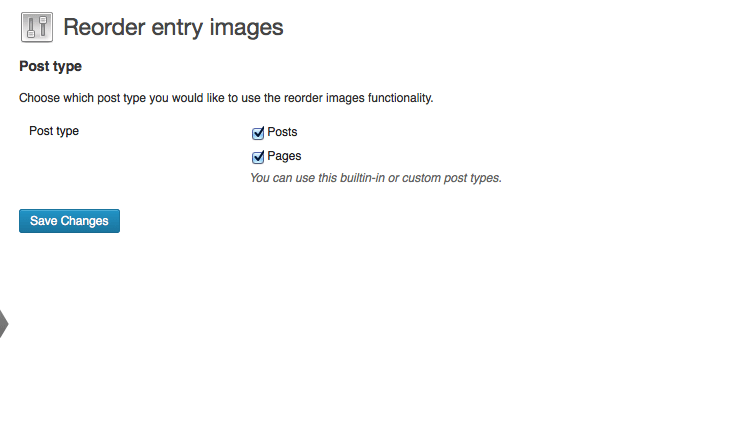
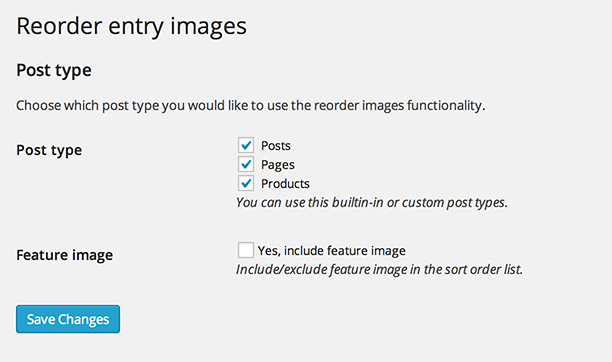
Updated screenshot-2

diff --git a/class-reorder-entry-images.php b/class-reorder-entry-images.php
@@ -24,7 +24,7 @@ class ReorderEntryImages {
 	 *
 	 * @var     string
 	 */
-	protected $version = '1.0.3';
+	protected $version = '1.0.4';
 
 	/**
 	* Unique identifier for your plugin.
@@ -231,9 +231,28 @@ class ReorderEntryImages {
 
 		register_setting( 'rei_the_settings_group', 'rei-options' );
 
-		add_settings_section( 'rei-section-posttype', __( 'Post type', 'reorder-entry-images' ), array( $this, 'rei_general_settings_callback'), $this->plugin_slug );
+		add_settings_section(
+			'rei-section-general-options',
+			__( 'Post type', 'reorder-entry-images' ),
+			array( $this, 'rei_general_settings_callback'),
+			$this->plugin_slug
+		);
 
-		add_settings_field( 'rei-field-posttype', __( 'Post type', 'reorder-entry-images' ), array( $this, 'rei_general_settings_field_callback'), $this->plugin_slug, 'rei-section-posttype' );
+		add_settings_field(
+			'rei-posttype',
+			__( 'Post type', 'reorder-entry-images' ),
+			array( $this, 'rei_option_posttype'),
+			$this->plugin_slug,
+			'rei-section-general-options'
+		);
+
+		add_settings_field( 
+			'rei-feature-image',
+			__( 'Feature image', 'reorder-entry-images' ),
+			array( $this, 'rei_option_feature_image'),
+			$this->plugin_slug,
+			'rei-section-general-options'
+		);
 	}
 
 	/**
@@ -242,15 +261,15 @@ class ReorderEntryImages {
 	* @since 1.0.0
 	*/
 	public function rei_general_settings_callback() {
-		echo 'Choose which post type you would like to use the reorder images functionality.';
+		_e( 'Choose which post type you would like to use the reorder images functionality.', 'reorder-entry-images' );
 	}
 
 	/**
-	* Render the settings field for this plugin.
+	* Render the settings posttype field for this plugin.
 	*
 	* @since 1.0.0
 	*/
-	public function rei_general_settings_field_callback() {
+	public function rei_option_posttype() {
 
 		$settings = (array) get_option( 'rei-options' );
 		foreach( self::getObjectTypes() as $type ) {
@@ -259,7 +278,22 @@ class ReorderEntryImages {
 			}
 		}
 		?>
-		<span class="description"><?php _e("You can use this builtin-in or custom post types.", 'sort-entry-images'); ?></span>
+		<span class="description"><?php _e( 'You can use this builtin-in or custom post types.', 'reorder-entry-images' ); ?></span>
+		<?php
+	}
+
+	/**
+	* Render the settings feature image field for this plugin.
+	*
+	* @since 1.0.4
+	*/
+	public function rei_option_feature_image() {
+
+		$settings = (array) get_option( 'rei-options' );
+		echo '<label class="inline"><input type="checkbox" name="rei-options[feature-image]" value="true" '.checked( 'true', $settings['feature-image'], false ).' />'.__( 'Yes, include feature image', 'reorder-entry-images' ).'</label>';
+		
+		?>
+		<span class="description"><?php _e( 'Include/exclude feature image in the sort order list.', 'reorder-entry-images' ); ?></span>
 		<?php
 	}
 
@@ -283,7 +317,7 @@ class ReorderEntryImages {
 				foreach( $this->the_post_type as $type ) {
 					add_meta_box(
 						'sort-entry-images',
-						__( 'Reorder images with drag & drop', 'sort-entry-images' ),
+						__( 'Reorder images with drag & drop', 'reorder-entry-images' ),
 						array( $this, 'add_image_metabox_sorter' ),
 						$type,
 						'normal',
@@ -302,7 +336,8 @@ class ReorderEntryImages {
 	 */
 	public function add_image_metabox_sorter( $p ) {
 
-		$thumb_id = get_post_thumbnail_id( get_the_ID() );
+		$settings = (array) get_option( 'rei-options' );
+		$thumb_id = $settings['feature-image'] ? 0 : get_post_thumbnail_id( get_the_ID() );
 
 		$args = array(
 			'order'          => 'ASC',
@@ -429,7 +464,8 @@ class ReorderEntryImages {
 
 		$wrap_class = $listclass ? $listclass : '';
 
-		$thumb_id = get_post_thumbnail_id( get_the_ID() );
+		$settings = (array) get_option( 'rei-options' );
+		$thumb_id = $settings['feature-image'] ? 0 : get_post_thumbnail_id( get_the_ID() );
 		$args = array(
 			'post_type' => 'attachment',
 			'post_mime_type'  => array('image/jpeg', 'image/png', 'image/gif'),

diff --git a/reorder-entry-images.php b/reorder-entry-images.php
@@ -3,7 +3,7 @@
 Plugin Name: Reorder Entry Images
 Plugin URI:  http://vayu.dk/reorder-entry-images/
 Description: This will get all the attachments that belong to a post or a page and display them in a list. This list can be reordered by drag and drop.
-Version:     1.0.3
+Version:     1.0.5
 Author:      Vayu Robins
 Author URI:  http://vayu.dk/
 Text Domain: reorder-entry-images
